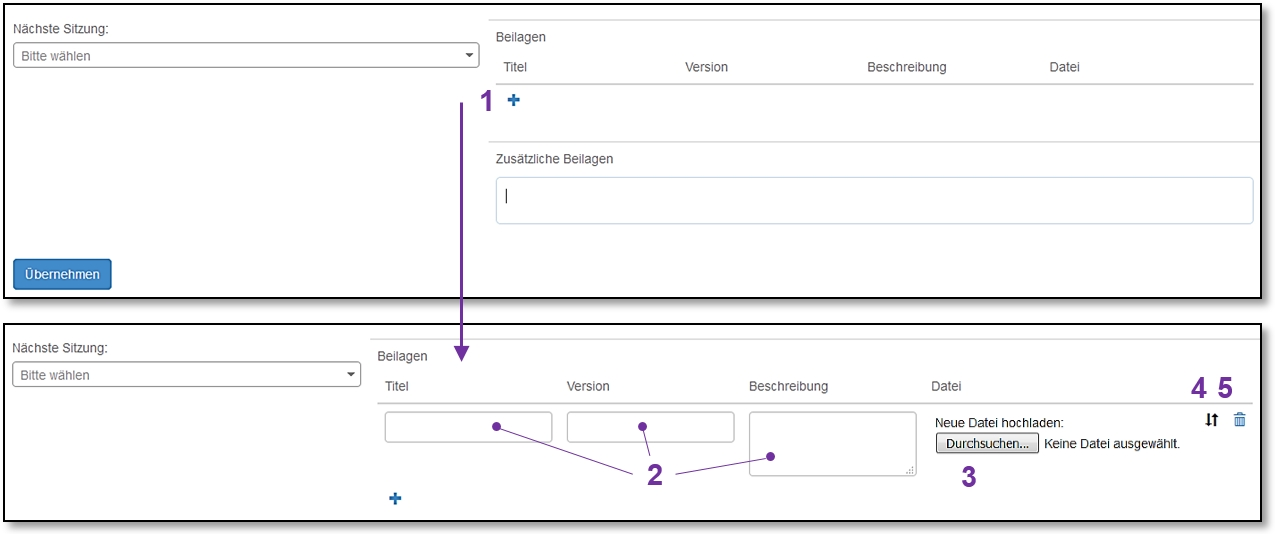
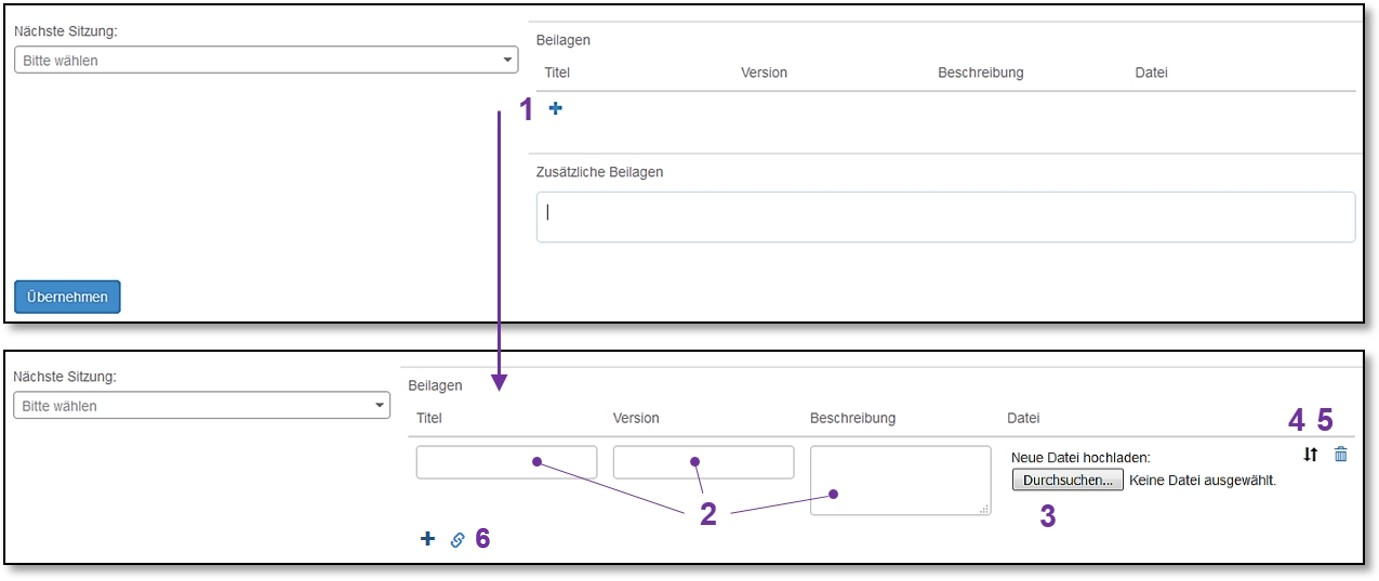
[german] Änderungen im Sitzungswesen
Anpassungen für Version 2.11
- Printscreens angepasst
- Text angepasst und neu dokumentiert
- Funktionen überprüft / getestet

diff --git a/german/CUBEPA_Handbuch.tex b/german/CUBEPA_Handbuch.tex
@@ -84,7 +84,7 @@
 \HRule \\[1.5cm]
 
 \textsf{\Large Benutzerhandbuch}\\[0.5cm] % Major heading such as course name
-\textsf{\large Version 2.11 / 16.07.2018}\\[0.5cm] % Minor heading such as course title
+\textsf{\large Version 2.11 / 17.07.2018}\\[0.5cm] % Minor heading such as course title
 
 
 \pagebreak
@@ -96,13 +96,13 @@
 \begin{tabular}{lp{12cm}}
 Auftragsnummer & BE.N.\\
 Auftraggeber & .\\
-Datum & 16.07.2018\\
+Datum & 17.07.2018\\
 Version & 2.11\\
 Autoren & Dieter Schopfer, Benjamin Nyffenegger, Rayane Zahreddine, Adrian Johner, Markus Schafroth, Simon Heimberg\\
 Freigabe & Markus Schafroth\\
 Verteilen & .\\
 Datei & .\\
-Seitenzahl & 191\\
+Seitenzahl & 194\\
 Copyright & \copyright{ Emch+Berger AG Bern}\\
 \end{tabular}
 
@@ -110,6 +110,9 @@ Copyright & \copyright{ Emch+Berger AG Bern}\\
 % \begin{flushleft} \large
 % \emph{Autoren:}\\
 % Dieter Schopfer
+\begin{flushright}
+
+\end{flushright}
 % \linebreak Benjamin Nyffenegger
 % \linebreak Adrian Johner
 % \linebreak Markus Schafroth % \textsc{Smith} % Your name

diff --git a/german/chapters/06_Anf-Maengelmanagement/06_Anf-Maengelmanagement.tex b/german/chapters/06_Anf-Maengelmanagement/06_Anf-Maengelmanagement.tex
@@ -2,6 +2,7 @@
 \clearpage
 
 \section{Anforderungs - und Mängelmanagement}
+\label{bkm:Ref2018071701}
 
 In diesem Kapitel wird das CUBE Anforderungs - und Mängelmanagement beschrieben.
 
